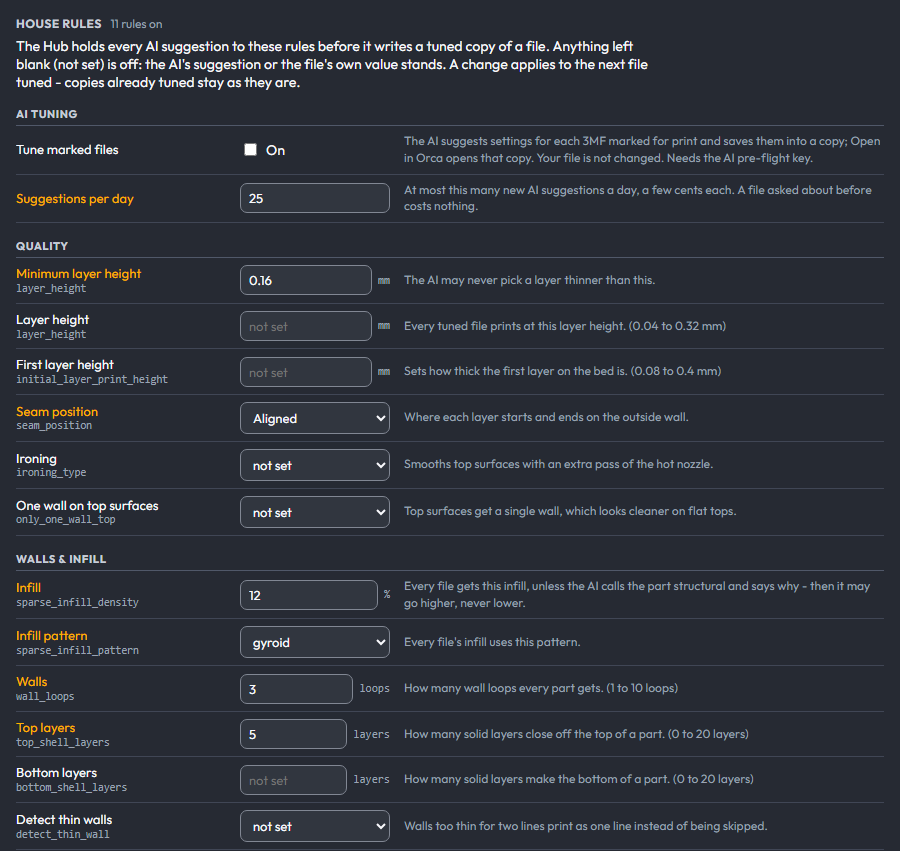
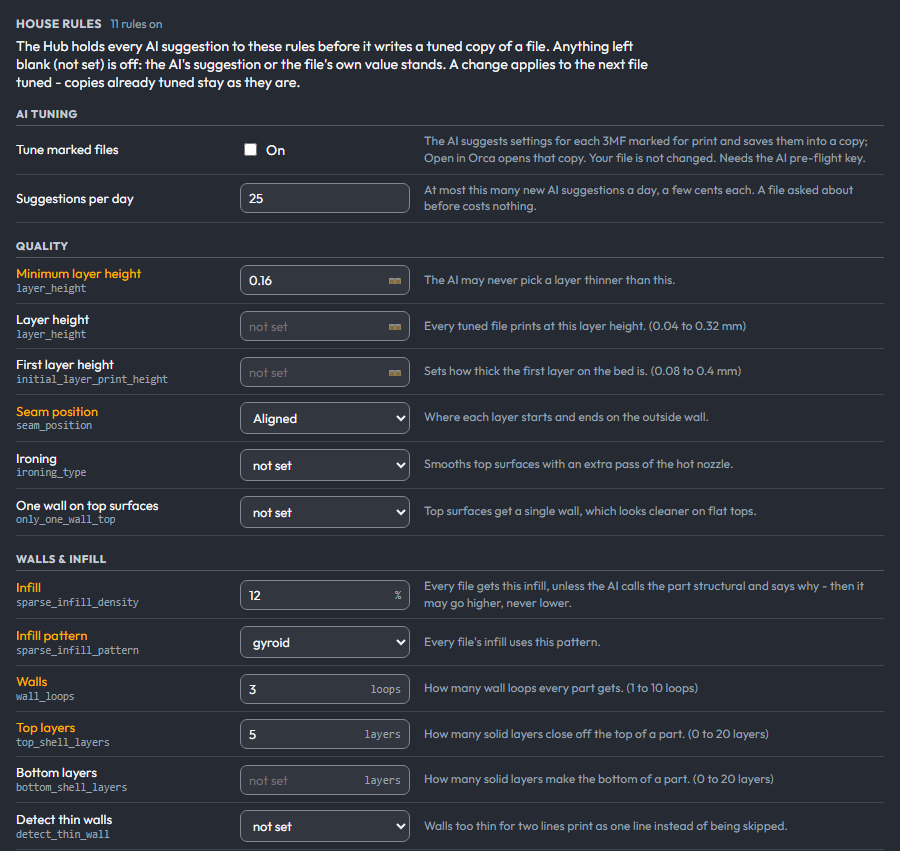
2.47.11: House rules card lines up; release builds on current mac runners
House rules card (Settings), from Danny's desktop and phone shots of 2.47.10:
- every control ends at one right edge: units sit inside their box
  (.hr-unit absolute, .hr-has-unit padding), selects and the flexi list
  share the same control column (170px desktop, 130px phone)
- the flexi designer list grows to show every name: rows =
  max(4, lines + 1), taller still if long names wrap; on load and typing
- Suggestions per day is a limit, not a rule: its row (hr-limit) never
  takes the rule-on color
- back-to-top steps aside while its spot sits over a .totop-avoid form
  (the House rules card), so it never covers a box on a phone; its
  scroll threshold and behavior everywhere else are unchanged
- docs/house-rules.png and house-rules-phone.png re-shot at the same crops

Release workflow: the v2.47.10 run died on "macos-14-arm64-us-default is
not supported" (GitHub retired macos-14), so nothing was published.
- Apple-Silicon build: macos-14 -> macos-15
- best-effort Intel build: macos-13 -> macos-15-intel (still needs the
  release and continue-on-error, so it cannot block publish)
- actions/checkout, setup-node, upload-artifact, download-artifact
  v4 -> v5 (Node 24 runtime; tags verified), in release.yml and ci.yml

Version 2.47.11 everywhere, CHANGELOG and update.json notes; harness
checks under == 2.47.11 ==, including no retired mac runner labels.

Claude-Session: https://claude.ai/code/session_01W3GYopX82fEnX44cU7aNQG

diff --git a/public/modules/models-ui.js b/public/modules/models-ui.js
@@ -1051,23 +1051,37 @@
     s.id = "hrcss";
     s.textContent = [
       "#setHouse .hr-grp{margin-top:16px; padding-bottom:4px; font-size:11px; font-weight:700; letter-spacing:.06em; text-transform:uppercase; color:var(--ink-dim); border-bottom:1px solid var(--line);}",
-      "#setHouse .hr-row{display:grid; grid-template-columns:minmax(150px,210px) 150px 1fr; gap:4px 14px; align-items:center; padding:7px 0; border-bottom:1px solid var(--line-soft);}",
+      "#setHouse .hr-row{display:grid; grid-template-columns:minmax(150px,210px) 170px 1fr; gap:4px 14px; align-items:center; padding:7px 0; border-bottom:1px solid var(--line-soft);}",
       "#setHouse .hr-name{font-size:13px; color:var(--ink); line-height:1.3;}",
       "#setHouse .hr-key{display:block; font-family:var(--mono); font-size:10.5px; color:var(--ink-faint); word-break:break-all;}",
-      "#setHouse .hr-in{display:flex; align-items:center; gap:6px; min-width:0;}",
+      // 2.47.11: every control fills the same column, so all of them end at
+      // one right edge; a unit sits inside its box, not beside it.
+      "#setHouse .hr-in{position:relative; display:flex; align-items:center; min-width:0;}",
       "#setHouse .hr-in .field{width:100%; min-width:0; padding:6px 8px; font-size:13px;}",
-      "#setHouse .hr-unit{font-family:var(--mono); font-size:11px; color:var(--ink-faint); flex:none;}",
+      "#setHouse .hr-in .field.hr-has-unit{padding-right:46px;}",
+      "#setHouse .hr-unit{position:absolute; right:9px; top:50%; transform:translateY(-50%); font-family:var(--mono); font-size:11px; color:var(--ink-faint); pointer-events:none;}",
       "#setHouse .hr-ex{font-size:12px; color:var(--ink-faint); line-height:1.4;}",
       "#setHouse .hr-row.on .hr-name{color:var(--signal);}",
       "#setHouse .hr-always{font-size:12px; color:var(--ink-faint); padding:7px 0; border-bottom:1px solid var(--line-soft);}",
-      "#setHouse textarea.field{width:100%; font-family:var(--mono); font-size:12px;}",
-      "@media (max-width:640px){#setHouse .hr-row{grid-template-columns:1fr 130px;} #setHouse .hr-ex{grid-column:1 / -1;}}"
+      "#setHouse textarea.field{width:100%; font-family:var(--mono); font-size:12px; line-height:1.45; resize:vertical;}",
+      "@media (max-width:640px){#setHouse .hr-row{grid-template-columns:1fr 130px;} #setHouse .hr-ex{grid-column:1 / -1;} #setHouse .hr-row.hr-wide .hr-in{grid-column:1 / -1;}}"
     ].join("\n");
     document.head.appendChild(s);
   }
   const hrName = (name, key) => '<div class="hr-name">' + esc(name) + (key ? '<code class="hr-key">' + esc(key) + "</code>" : "") + "</div>";
-  const hrRow = (name, key, input, ex, id) => '<div class="hr-row" data-hrrow="' + esc(id) + '">' + hrName(name, key) + '<div class="hr-in">' + input + "</div>" + '<div class="hr-ex">' + esc(ex) + "</div></div>";
-  const hrText = (id, unit) => '<input class="field" id="' + id + '" inputmode="decimal" autocomplete="off" spellcheck="false" placeholder="not set">' + (unit ? '<span class="hr-unit">' + esc(unit) + "</span>" : "");
+  const hrRow = (name, key, input, ex, id, cls) => '<div class="hr-row' + (cls ? " " + cls : "") + '" data-hrrow="' + esc(id) + '">' + hrName(name, key) + '<div class="hr-in">' + input + "</div>" + '<div class="hr-ex">' + esc(ex) + "</div></div>";
+  // A row marked hr-limit (the daily limit) is a setting, not a rule: it never
+  // takes the "rule on" color, whatever its value.
+  const hrOn = (row, on) => { if (row) row.classList.toggle("on", !!on && !row.classList.contains("hr-limit")); };
+  // The flexi list shows every name plus one empty line (never fewer than 4
+  // rows), and grows past that if long names wrap.
+  function hrFit(ta) {
+    if (!ta) return;
+    ta.style.height = "";
+    ta.rows = Math.max(4, String(ta.value || "").split("\n").length + 1);
+    if (ta.scrollHeight > ta.clientHeight + 1) ta.style.height = (ta.scrollHeight + ta.offsetHeight - ta.clientHeight) + "px";
+  }
+  const hrText = (id, unit) => '<input class="field' + (unit ? " hr-has-unit" : "") + '" id="' + id + '" inputmode="decimal" autocomplete="off" spellcheck="false" placeholder="not set">' + (unit ? '<span class="hr-unit">' + esc(unit) + "</span>" : "");
   const hrSelect = (id, vals, names) => '<select class="field" id="' + id + '"><option value="">not set</option>' + vals.map(v => '<option value="' + esc(v) + '">' + esc((names && names[v]) || v) + "</option>").join("") + "</select>";
   function buildHouse(house) {
     const host = document.getElementById("setModules");
@@ -1082,8 +1096,8 @@
       }
       if (g === "Supports") {
         h += '<div class="hr-always">Always on: supports the designer painted are never switched off, and a flexi model keeps the designer\'s support settings.</div>';
-        h += '<div class="hr-row" data-hrrow="hrFlexi" style="align-items:start">' + hrName("Flexi designers", "") + '<div class="hr-in" style="grid-column:span 2"><textarea class="field" id="hrFlexi" rows="3" spellcheck="false" placeholder="one designer per line (none yet)"></textarea></div>' +
-          '<div class="hr-ex" style="grid-column:1 / -1">Models from these designers keep the designer\'s support settings, because supports fuse flexi joints. A model named Flexi or Articulated counts without being listed.</div></div>';
+        h += '<div class="hr-row hr-wide" data-hrrow="hrFlexi" style="align-items:start">' + hrName("Flexi designers", "") + '<div class="hr-in"><textarea class="field" id="hrFlexi" rows="4" spellcheck="false" placeholder="one designer per line (none yet)"></textarea></div>' +
+          '<div class="hr-ex">Models from these designers keep the designer\'s support settings, because supports fuse flexi joints. A model named Flexi or Articulated counts without being listed.</div></div>';
       }
       for (const r of rules.filter(x => x.group === g)) {
         const id = "hrF-" + r.key;
@@ -1108,14 +1122,18 @@
           body = '<div class="hr-row" data-hrrow="hrPretune">' + hrName("Tune marked files", "") +
             '<div class="hr-in"><label class="hint" style="display:flex; align-items:center; gap:6px; cursor:pointer"><input type="checkbox" id="hrPretune"> On</label></div>' +
             '<div class="hr-ex">The AI suggests settings for each 3MF marked for print and saves them into a copy; Open in Orca opens that copy. Your file is not changed. Needs the AI pre-flight key.</div></div>' +
-            hrRow("Suggestions per day", "", hrText("hrDaily", ""), "At most this many new AI suggestions a day, a few cents each. A file asked about before costs nothing.", "hrDaily");
+            hrRow("Suggestions per day", "", hrText("hrDaily", ""), "At most this many new AI suggestions a day, a few cents each. A file asked about before costs nothing.", "hrDaily", "hr-limit");
         } else body = byGroup(g);
         return body ? '<div class="hr-grp">' + esc(g) + "</div>" + body : "";
       }).join("") +
       '<div class="row" style="margin-top:12px; gap:8px; flex-wrap:wrap"><button class="btn ghost" id="hrSave">Save house rules</button><span class="pstatus" id="hrMsg"></span></div>';
+    HR.classList.add("totop-avoid");   // the back-to-top button stands aside while it would cover these controls
     host.appendChild(HR);
     HR.querySelector("#hrSave").addEventListener("click", saveHouse);
-    HR.addEventListener("input", e => { const row = e.target.closest(".hr-row"); if (row && e.target.id !== "hrPretune") row.classList.toggle("on", !!String(e.target.value || "").trim()); });
+    HR.addEventListener("input", e => {
+      if (e.target.id === "hrFlexi") hrFit(e.target);
+      const row = e.target.closest(".hr-row"); if (row && e.target.id !== "hrPretune") hrOn(row, String(e.target.value || "").trim());
+    });
     const gear = document.getElementById("gear");
     if (gear) gear.addEventListener("click", () => setTimeout(() => { const st = document.getElementById("setup"); if (st && st.classList.contains("show")) loadHouse(); }, 0));
   }
@@ -1124,11 +1142,12 @@
     if (HR.contains(document.activeElement) && document.activeElement.id !== "hrSave") return;   // never under a person's typing
     HRSTATE = d;
     const H = d.house, q = id => HR.querySelector("#" + CSS.escape(id));
-    const put = (id, v) => { const el = q(id); if (!el) return; el.value = v == null ? "" : String(v); const row = el.closest(".hr-row"); if (row) row.classList.toggle("on", v != null && String(v) !== ""); };
+    const put = (id, v) => { const el = q(id); if (!el) return; el.value = v == null ? "" : String(v); hrOn(el.closest(".hr-row"), v != null && String(v) !== ""); };
     q("hrPretune").checked = !!(d.pretune && d.pretune.on);
     put("hrDaily", d.pretune ? d.pretune.max : 25);
     for (const sp of HR_SPECIAL) put(sp[0], H[sp[7]]);
     q("hrFlexi").value = (H.flexiDesigners || []).join("\n");
+    hrFit(q("hrFlexi"));
     for (const r of H.forceRules || []) put("hrF-" + r.key, (H.force || {})[r.key]);
     const n = HR_SPECIAL.filter(sp => H[sp[7]] != null).length + Object.keys(H.force || {}).length;
     q("hrHint").textContent = n ? n + " rule" + (n === 1 ? "" : "s") + " on" : "all off - the AI and each file decide";

diff --git a/test/run-tests.js b/test/run-tests.js
@@ -6319,6 +6319,29 @@ async function stopHub() {
     ok(/raw\.split\("\?"\)\[0\]/.test(appSrc), "H22: a deep link with view state after ? still opens the right view");
   }
 
+  console.log("\n== 2.47.11 ==");
+  {
+    // Danny's phone and desktop shots of the 2.47.10 House rules card, and the
+    // v2.47.10 release run that died on GitHub's retired macos-14 runner.
+    const mui = fs.readFileSync(path.join(REPO, "public", "modules", "models-ui.js"), "utf8");
+    ok(/\.hr-unit\{position:absolute;/.test(mui) && /\.field\.hr-has-unit\{padding-right:/.test(mui) && /'<input class="field' \+ \(unit \? " hr-has-unit" : ""\)/.test(mui),
+      "2.47.11: a House rules unit sits inside its box, so every box ends at the same right edge");
+    ok(/data-hrrow="hrFlexi" style="align-items:start">' \+ hrName\("Flexi designers", ""\) \+ '<div class="hr-in"><textarea/.test(mui) && !/grid-column:span 2/.test(mui),
+      "2.47.11: the flexi list sits in the same control column as every other box");
+    ok(/ta\.rows = Math\.max\(4, String\(ta\.value \|\| ""\)\.split\("\\n"\)\.length \+ 1\);/.test(mui) && /hrFit\(q\("hrFlexi"\)\);/.test(mui) && /if \(e\.target\.id === "hrFlexi"\) hrFit\(e\.target\);/.test(mui),
+      "2.47.11: the flexi list grows to show every name plus a spare line (never under 4), on load and while typing");
+    ok(/"hrDaily", "hr-limit"\);/.test(mui) && /row\.classList\.toggle\("on", !!on && !row\.classList\.contains\("hr-limit"\)\)/.test(mui) && !/row\.classList\.toggle\("on", v != null/.test(mui),
+      "2.47.11: Suggestions per day is a limit, not a rule - it never takes the rule-on color");
+    const idx = fs.readFileSync(path.join(REPO, "public", "index.html"), "utf8");
+    ok(/HR\.classList\.add\("totop-avoid"\)/.test(mui) && /function covers\(\)\{/.test(idx) && /document\.querySelectorAll\("\.totop-avoid"\)/.test(idx) && /Math\.max\(600, window\.innerHeight\) && !covers\(\);/.test(idx),
+      "2.47.11: the back-to-top button steps aside while it would sit over the House rules card, and keeps its old rule everywhere else");
+    const rel = fs.readFileSync(path.join(REPO, ".github", "workflows", "release.yml"), "utf8");
+    const labels = [...rel.matchAll(/(?:runs-on|runner):\s*([\w.-]+)/g)].map(m => m[1]).filter(l => !/^\$/.test(l));
+    ok(!labels.some(l => /^macos-1[34]$/.test(l)) && labels.includes("macos-15") && labels.includes("macos-15-intel"),
+      "2.47.11: release.yml builds on current mac runners (macos-15 arm64, macos-15-intel), none GitHub has retired", labels);
+    ok(/build-intel:[\s\S]*?needs: release[\s\S]*?continue-on-error: true/.test(rel), "2.47.11: the Intel mac build still runs after publish and can never block it");
+  }
+
   console.log("\n== 2.47.7: Dispatch counts a near-match roll as loaded ==");
   {
     // Danny, 2026-11-02: Dispatch put Dino Clickers on U6 (3 roll changes) while U7 sat idle

diff --git a/public/index.html b/public/index.html
@@ -1,5 +1,5 @@
 <!DOCTYPE html>
-<!-- U1 Print Hub — index v2.47.10 -->
+<!-- U1 Print Hub — index v2.47.11 -->
 <html lang="en">
 <head>
 <meta charset="UTF-8" />
@@ -787,9 +787,24 @@
 (function(){
   var b = document.getElementById("totop"); if(!b) return;
   var shown = false, queued = false;
+  // 2.47.11: a form marked .totop-avoid (the House rules card) keeps its
+  // controls clear - while the button's spot sits over that form (on a phone
+  // the form runs edge to edge), the button steps aside instead of covering a
+  // box someone is about to tap. The whole form counts, not each box, so the
+  // button does not blink on and off between rows.
+  function covers(){
+    var forms = document.querySelectorAll(".totop-avoid");
+    if(!forms.length) return false;
+    var r = b.getBoundingClientRect(), pad = 8;
+    for(var i = 0; i < forms.length; i++){
+      var f = forms[i].getBoundingClientRect();
+      if(f.width && f.height && f.left < r.right + pad && f.right > r.left - pad && f.top < r.bottom + pad && f.bottom > r.top - pad) return true;
+    }
+    return false;
+  }
   function update(){
     queued = false;
-    var on = window.scrollY > Math.max(600, window.innerHeight);
+    var on = window.scrollY > Math.max(600, window.innerHeight) && !covers();
     if(on !== shown){ shown = on; b.classList.toggle("show", on); }
   }
   function queue(){ if(!queued){ queued = true; requestAnimationFrame(update); } }
@@ -806,7 +821,7 @@
 })();
 </script>
 
-<script>const VERSION = "2.47.10";</script>
+<script>const VERSION = "2.47.11";</script>
 <script src="app.js"></script>
 <!-- @client-modules -->
 </body>

diff --git a/server.js b/server.js
@@ -3,7 +3,7 @@
 // and pushes the chosen file to the chosen printer via Moonraker (server-side,
 // so no browser CORS headaches).
 
-const VERSION = "2.47.10";
+const VERSION = "2.47.11";
 
 const fs = require("fs");
 const http = require("http");

diff --git a/docs/CHANGELOG.md b/docs/CHANGELOG.md
@@ -77,6 +77,14 @@ printers, and nothing leaves your network unless you turn remote access on.
 
 ---
 
+### 2.47.11 - a tidier House rules card, and downloads that build again
+
+- **Every box lines up.** In Settings, House rules, every box now ends at the same right edge, on a computer and on a phone. The unit (mm, %, loops, layers, mm/s) sits inside its box instead of beside it, so a longer unit no longer makes its box shorter, and the dropdowns line up with the rest.
+- **The flexi designer list shows every name.** It grows to fit the whole list plus a spare line for the next name, instead of showing three names and cutting the fourth in half.
+- **Suggestions per day looks like a setting, not a rule.** It is a spending limit, so it no longer turns gold like a rule that is switched on.
+- **The back-to-top button stays out of the way.** On a phone it used to float over the bottom-right box while you scrolled the card. Now it steps aside while it would cover the House rules card and comes back once you scroll past it.
+- **2.47.10 never got its downloads, so this is the one to grab.** GitHub retired the Mac machine the Apple Silicon build ran on, that build stopped, and the release was never published. The builds now run on GitHub's current Mac machines, so 2.47.11 is the first downloadable build with everything since 2.44.0. (Best practice: name an explicit, current build machine like macos-15 rather than macos-latest, so a release only changes machines when you choose to, and keep any best-effort build off the path that publishes the release.)
+
 ### 2.47.10 - house rules get their own card in Settings
 
 - **One place for the shop's rules.** Settings has a new House rules card. Everything that used to sit under Models, Folder and was really a shop rule lives there now: tuning files when they are marked for print, the daily limit, infill and pattern, the lowest layer height, the flexi designer list, the brim gap and the prime tower. The Folder panel keeps only folder settings, plus a link that opens the card.
